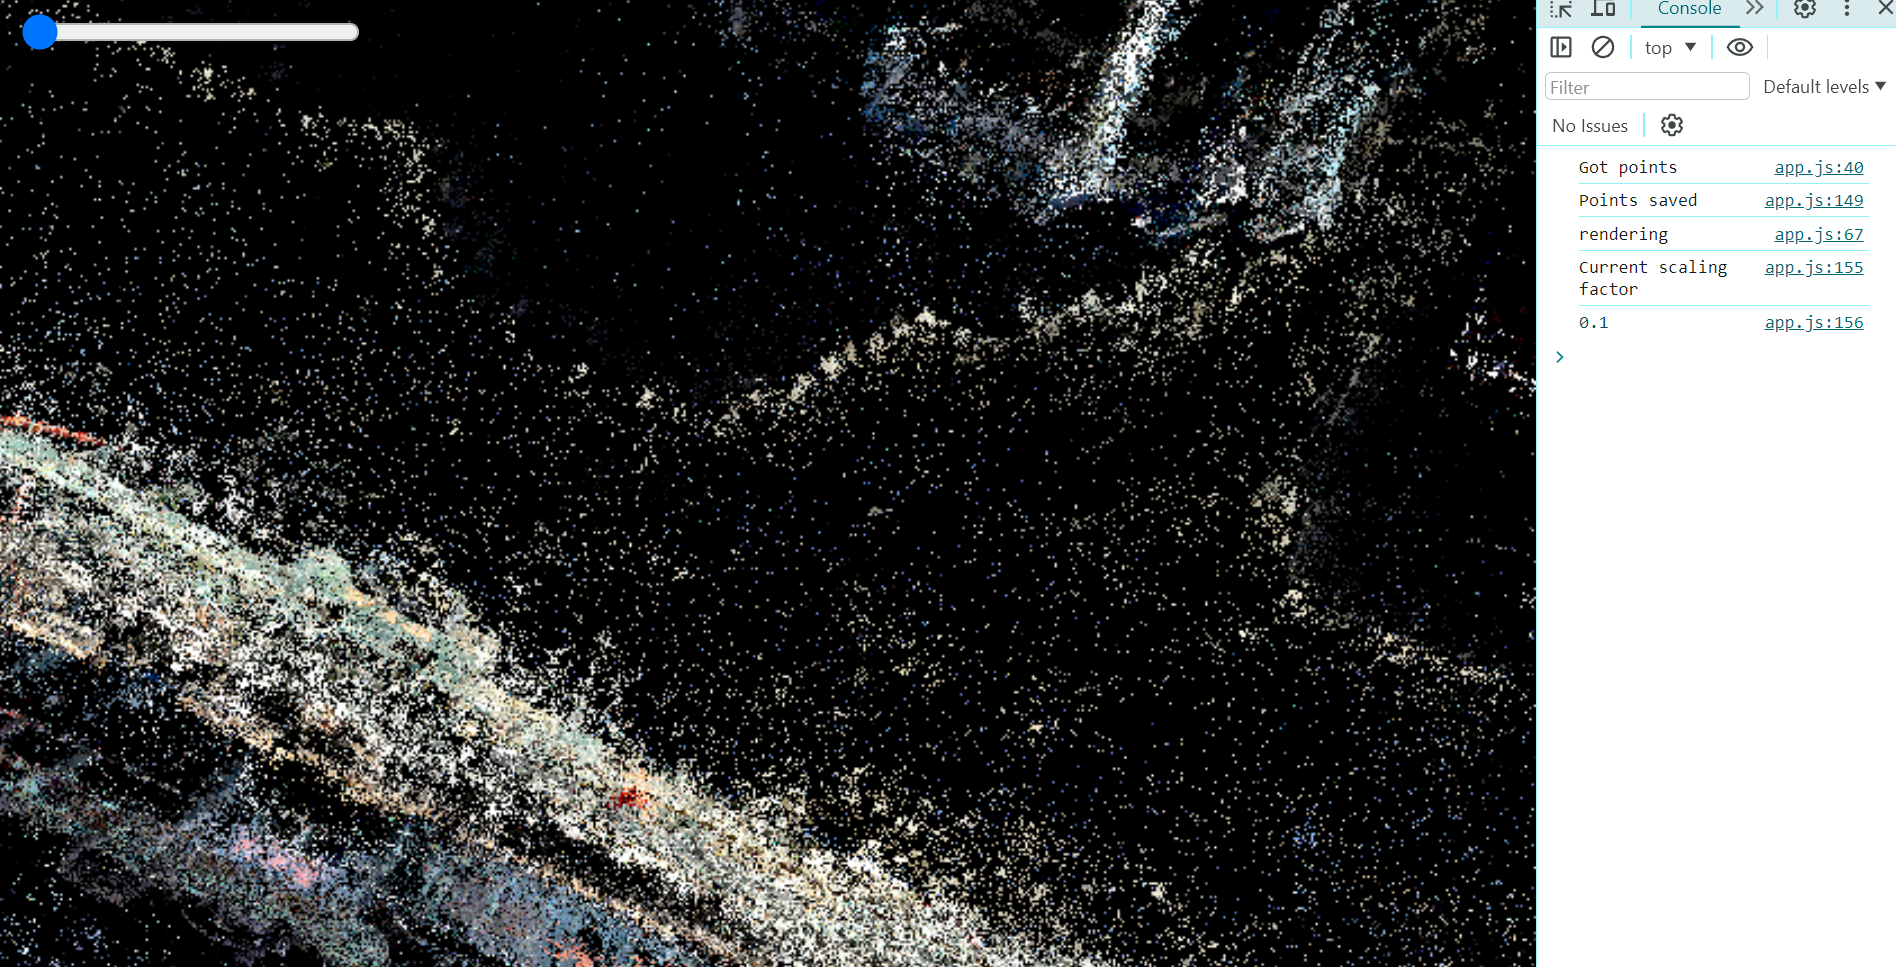
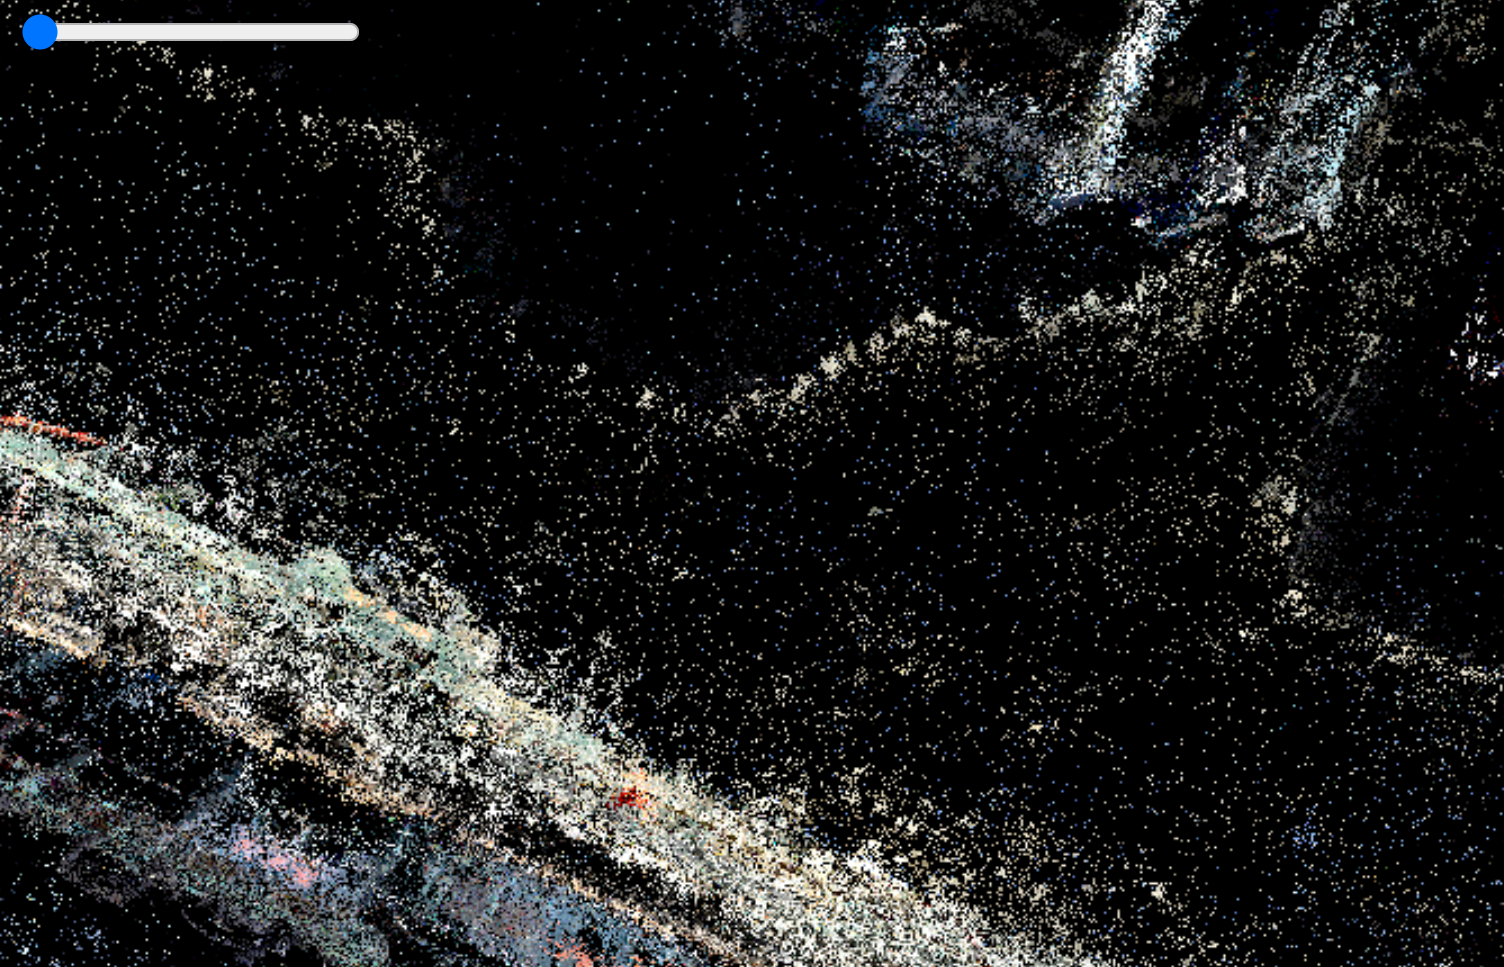
Bigger slider, alpha blending, correct order of drawing

diff --git a/first-assignment/public/app.js b/first-assignment/public/app.js
@@ -1,9 +1,6 @@
-//TODO: try to figure out orbitControls + check if the splats turn to the view point
-
-
+//TODO: try to figure out orbitControls 
 async function fetchAndParsePoints() {
     // Getting points from the splat and storing them into a point array with information about them
-    //burek
     const response = await fetch('nike.splat'); //set different parameters for scaling based on the name of the file
     const arrayBuffer = await response.arrayBuffer();
     const data = new DataView(arrayBuffer);
@@ -38,61 +35,71 @@ async function fetchAndParsePoints() {
         points.push({ position, scale, color, rotation });
     }
 
-    //sorting the points based on their distance from the camera
-    // points.sort((a, b) => {
-    //     const depthA = Math.sqrt(a.position[0]**2 + a.position[1]**2 + a.position[2]**2);
-    //     const depthB = Math.sqrt(b.position[0]**2 + b.position[1]**2 + b.position[2]**2);
-    //     return depthB - depthA; // Sort in descending order based on depth
-    // });
 
     console.log("Got points")
     return points;
 }
 
-function calculatePointCloudCenter(points) {
-    if (points.length === 0) {
-        // Handle the case where there are no points in the cloud
-        return new THREE.Vector3();
-    }
-
-    // Initialize the sum of positions
-    const sum = new THREE.Vector3();
-
-    // Calculate the sum of all point positions
-    for (const point of points) {
-        const position = new THREE.Vector3().fromArray(point.position);
-        sum.add(position);
-    }
-
-    // Divide the sum by the number of points to get the average position (center)
-    const center = sum.divideScalar(points.length);
-
-    return center;
+//function for calculating the distance between a point and a camera 
+function calculateDistance(point, cameraX, cameraY, cameraZ) {
+    // Calculate Euclidean distance between a point and the camera
+    const dx = point.position[0] - cameraX;
+    const dy = point.position[1] - cameraY;
+    const dz = point.position[2] - cameraZ;
+    return Math.sqrt(dx * dx + dy * dy + dz * dz);
 }
+
+// function calculatePointCloudCenter(points) {
+//     if (points.length === 0) {
+//         // Handle the case where there are no points in the cloud
+//         return new THREE.Vector3();
+//     }
+
+//     // Initialize the sum of positions
+//     const sum = new THREE.Vector3();
+
+//     // Calculate the sum of all point positions
+//     for (const point of points) {
+//         const position = new THREE.Vector3().fromArray(point.position);
+//         sum.add(position);
+//     }
+
+//     // Divide the sum by the number of points to get the average position (center)
+//     const center = sum.divideScalar(points.length);
+
+//     return center;
+// }
 
 
 function init3DScene(points) {
+
     console.log("rendering")
+        const camera_x = 0;
+        const camera_y = 0;
+        const camera_z = 5;         
 
         // Scene setup
         const scene = new THREE.Scene();
-        //scene.background = new THREE.Color(0x000000); // e.g., set to black
+        scene.background = new THREE.Color(0xffffff); // e.g., set to black
         const camera = new THREE.PerspectiveCamera(75, window.innerWidth / window.innerHeight, 0.1, 1000);
         const renderer = new THREE.WebGLRenderer();
         renderer.setSize(window.innerWidth, window.innerHeight);
         document.body.appendChild(renderer.domElement);
         
-        // Adjust camera position so we can see the points
-        camera.position.set(0,0,5)
+        // Adjust camera position
+        camera.position.set(camera_x,camera_y,camera_z)
 
-        // Order points based on depth (distance from camera)
-        const cameraPosition = new THREE.Vector3(); // Assuming you have access to the camera position
-        points.sort((a, b) => {
-            const depthA = cameraPosition.distanceTo(new THREE.Vector3(...a.position));
-            const depthB = cameraPosition.distanceTo(new THREE.Vector3(...b.position));
-            return depthB - depthA; // Sort in descending order based on depth
+        // TODO: Order points based on depth (distance from camera)  --> min to max and vice versa pictures!
+        points.sort((a, b) => { //pairwise sort
+            const distanceA = calculateDistance(a, camera_x, camera_y, camera_z);
+            const distanceB = calculateDistance(b, camera_x, camera_y, camera_z);
+            return distanceB - distanceA;
         });
 
+        console.log(points[1].position);
+        console.log(points[2].position);
+
+        //TODO: Manual controls using orbit controls - dependencies issues
         // //const controls = new OrbitControls(camera, renderer.domElement);
         // controls.enableDamping = true; // an animation loop is required when either damping or auto-rotation are enabled
         // controls.dampingFactor = 0.25; // increase for more damping, decrease for less
@@ -100,32 +107,61 @@ function init3DScene(points) {
         // controls.maxPolarAngle = Math.PI / 2; 
 
         //Points representation:
-        
         const geometry = new THREE.BufferGeometry();
         const positions = [];
         const colors = [];
       
        for(let i = 0; i < points.length; i++) {
-            // Add positions
-            //const scaledPosition = points[i].position.map(coord => coord * scaling_factor);
-            positions.push(...points[i].position);
+            // // Add positions
+            // //const scaledPosition = points[i].position.map(coord => coord * scaling_factor);
+            // positions.push(...points[i].position);
 
-            const color = new THREE.Color();
-            color.setRGB(points[i].color[0] / 255, points[i].color[1] / 255, points[i].color[2] / 255);
-            colors.push(color.r, color.g, color.b);
+            // //TODO: implement alpha blending
+            // const color = new THREE.Color();
+            // color.setRGB(points[i].color[0] / 255, points[i].color[1] / 255, points[i].color[2] / 255);
+            // colors.push(color.r, color.g, color.b);
+
+            // // Extract RGBA components
+            // const r = points[i].color[0] / 255;
+            // const g = points[i].color[1] / 255;
+            // const b = points[i].color[2] / 255;
+            // const a = points[i].color[3] / 255; // Alpha component
+
+            // // Pre-multiply RGB components by alpha (straight alpha)
+            // const premultipliedR = r * a;
+            // const premultipliedG = g * a;
+            // const premultipliedB = b * a;
+
+            let alpha = points[i].color[3] / 255;
+            let baseColor = new THREE.Color(
+            points[i].color[0] / 255,
+            points[i].color[1] / 255,
+            points[i].color[2] / 255
+            );
+
+            // Modulate each component by alpha (assuming white background, hence 1 - alpha)
+            colors.push(
+            (1 - alpha) + alpha * baseColor.r,
+            (1 - alpha) + alpha * baseColor.g,
+            (1 - alpha) + alpha * baseColor.b
+            );
+
+            // Add positions and colors (with pre-multiplied alpha) to the arrays
+            positions.push(...points[i].position);
+            
         }
 
         geometry.setAttribute('position', new THREE.Float32BufferAttribute(positions, 3));
         geometry.setAttribute('color', new THREE.Float32BufferAttribute(colors, 3));
 
         
-        const material = new THREE.PointsMaterial({ size: 0.03, vertexColors: true });
+        const material = new THREE.PointsMaterial({ size: 0.03, vertexColors: true , transparent: true});
         const pointCloud = new THREE.Points(geometry,material);
 
         //translate/rotate/scale
         pointCloud.rotateX(2*Math.PI/3);
-        //pointCloud.scale.set(0.5, 0.5, 0.5);
-        pointCloud.position.set(0, 0, 0);
+        pointCloud.scale.set(1, 1, 1);
+        pointCloud.position.set(0, 1, 0);
 
         scene.add(pointCloud);
       

diff --git a/first-assignment/public/index.html b/first-assignment/public/index.html
@@ -7,7 +7,7 @@
     <style>
         body { margin: 0; }
         canvas { display: block; }
-        #scaling-slider { position: absolute; top: 10px; left: 10px; width: 150px;}
+        #scaling-slider { position: absolute; top: 10px; left: 10px; width: 300px;}
    
        
     </style>
